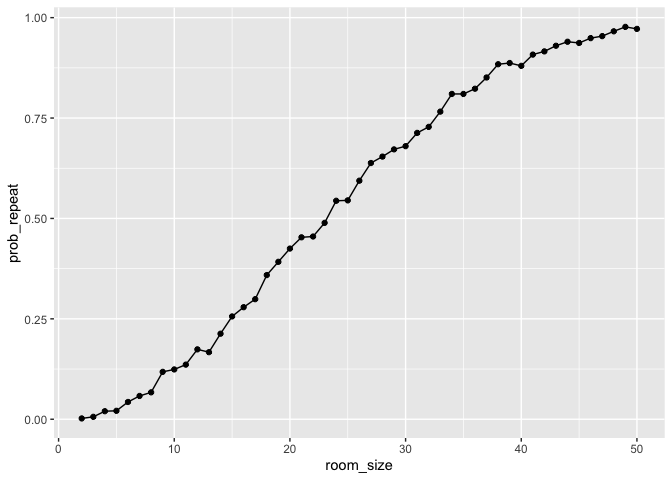
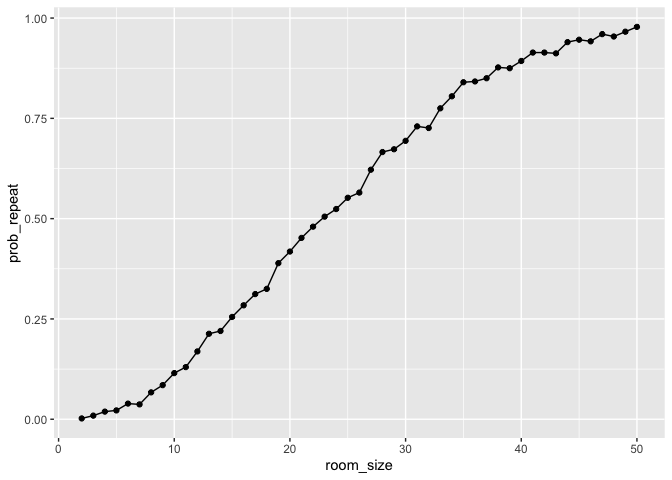
starting on problem 2

diff --git a/p8105_hw5_co2616.md b/p8105_hw5_co2616.md
@@ -72,3 +72,20 @@ birthday. n a room full of about 50 people, there would be a 99% chance
 that at least two people share a birthday.
 
 ## Problem 2
+
+``` r
+null_df = function(n = 30, mu = 0, sigma = 2) {
+  
+ sim_df =
+  tibble(
+    x = rnorm(n = n, mean = mu, sd = sigma)
+    )
+ 
+ null_df %>% 
+    summarize(
+      mu_hat = mean(x),
+      sigma_hat = sd(x)
+    ) 
+
+}
+```
